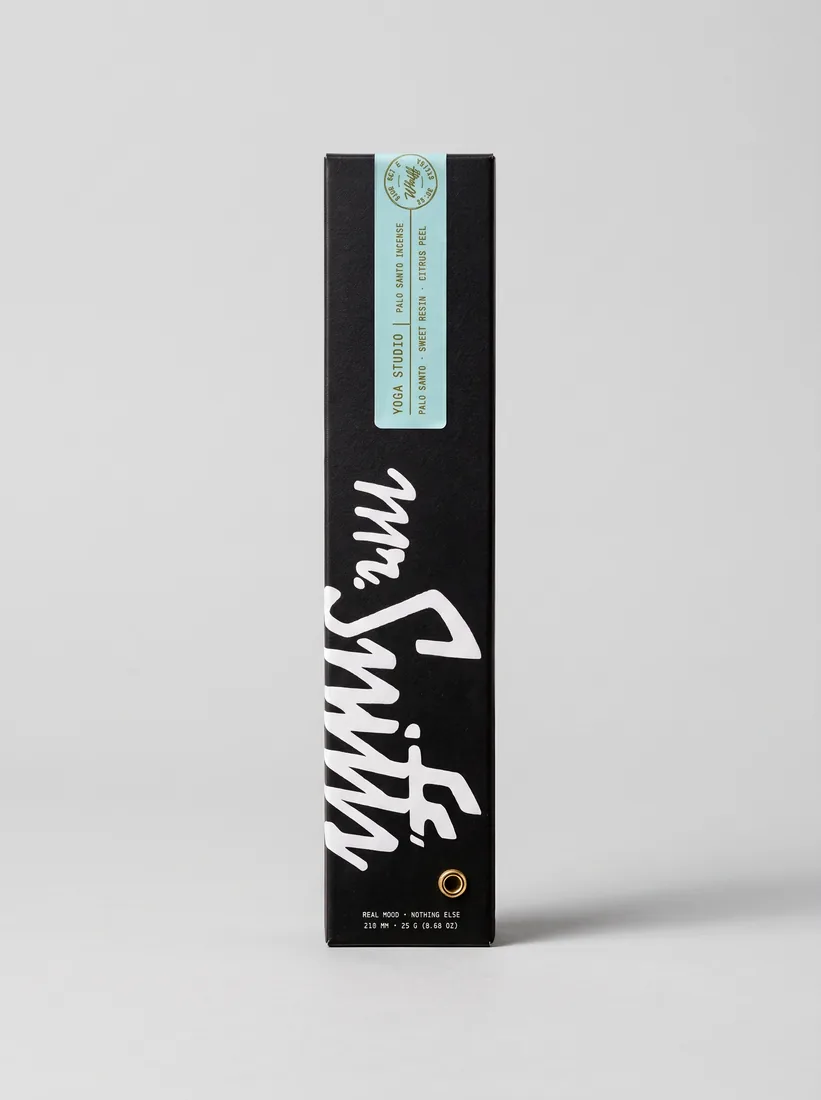
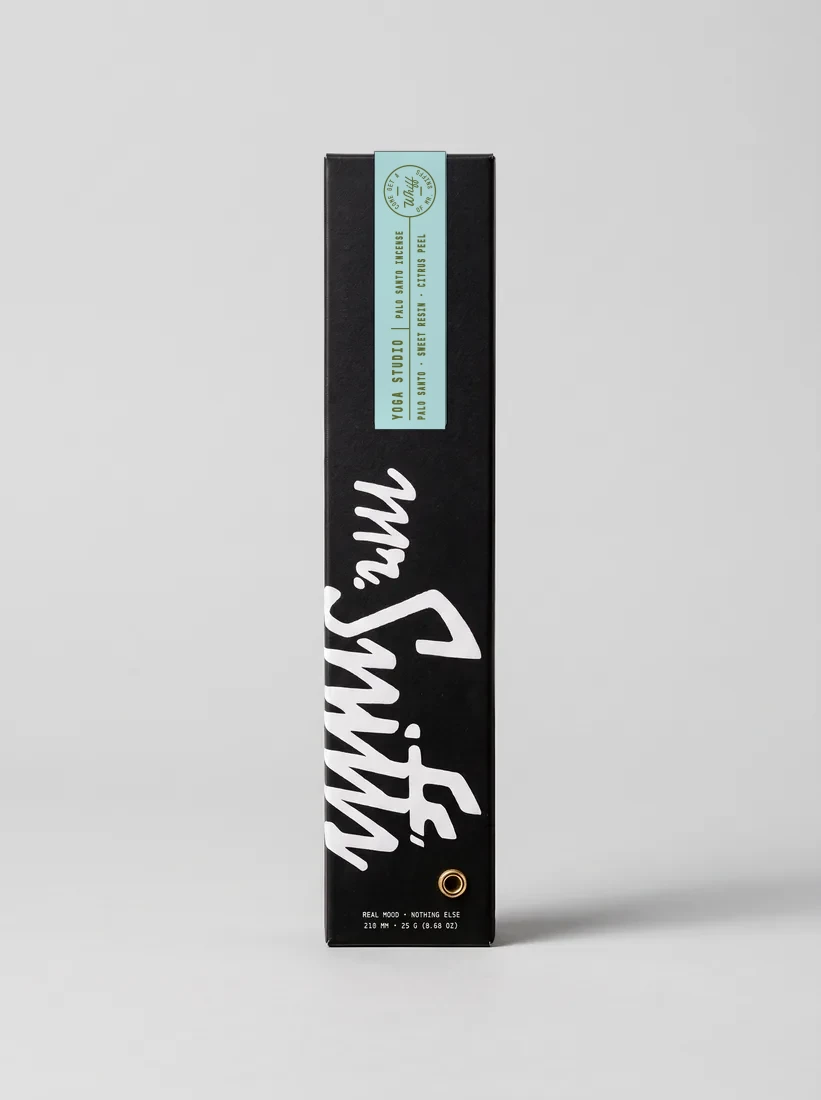
Clean AI label artifacts, flip Bonfire wordmark, swap team block for origin story
- Rebuild the Bonfire and Yoga Studio labels as clean artwork (grid measured
  from the master Yoga label) and composite them onto box-bonfire, box-yoga
  (now 2x), shop-bonfire, shop-yoga, shop-duo and pdp-gallery-main
- pdp-smell-bg: rotate the wordmark 180 degrees in place, rebuild the box edge,
  replace the garbled label
- Our Story: replace the placeholder team row with a three-beat origin story;
  pull quote drops 'bold fragrances' and the placeholder founder name
- Remove unused team portraits; note packaging orientation in BUILD-LIST

Claude-Session: https://claude.ai/code/session_018sbhs56ehqqzLbZEBXg3e9

Changed region(s): [[0.4568, 0.1236, 0.5481, 0.4018]]

diff --git a/story.html b/story.html
@@ -60,49 +60,40 @@
     <section class="story-hero" aria-labelledby="story-title">
       <img class="story-hero__img" src="assets/img/story/hero.webp" width="2880" height="1556" alt="Bonfire and Yoga Studio incense boxes on bark with palo santo, resin, orange peel and a smoking stick in a black holder" fetchpriority="high" data-parallax="0.06" />
       <h1 class="story-hero__title display-l" id="story-title" data-split>MORE THAN INCENSE.</h1>
-      <p class="story-hero__lede" data-reveal style="--d: 3">Discover Mr. Sniff’s bold fragrances and craftsmanship.</p>
+      <p class="story-hero__lede" data-reveal style="--d: 3">Incense for real rooms and real moments, with nothing poured on top.</p>
     </section>
 
-    <!-- ─── Meet the people (132:128) · placeholder names + photos ─ -->
-    <section class="team" aria-labelledby="team-title" data-team>
-      <header class="team__head">
-        <div data-reveal>
-          <h2 class="display-l" id="team-title">MEET THE PEOPLE BEHIND MR. SNIFF'S.</h2>
-          <p class="lede">Meet the creative minds behind every Mr. Sniff's scent.</p>
-        </div>
-        <div class="team__nav" data-reveal style="--d: 1">
-          <button class="team__arrow" type="button" aria-label="Previous person" data-team-prev><svg viewBox="0 0 24 24" width="18" height="18" fill="none" stroke="currentColor" stroke-width="1.5" stroke-linecap="round" stroke-linejoin="round" aria-hidden="true"><path d="m15 18-6-6 6-6"/></svg></button>
-          <button class="team__arrow" type="button" aria-label="Next person" data-team-next><svg viewBox="0 0 24 24" width="18" height="18" fill="none" stroke="currentColor" stroke-width="1.5" stroke-linecap="round" stroke-linejoin="round" aria-hidden="true"><path d="m9 18 6-6-6-6"/></svg></button>
-        </div>
-      </header>
-      <ul class="team__row" data-reveal style="--d: 1">
-        <li class="member is-active" data-member>
-          <button class="member__media" type="button" aria-pressed="true" aria-label="Iva Ryan, Founder">
-            <img src="assets/img/story/team-b.webp" alt="Founder holding a lit incense stick in a yellow leather jacket" loading="lazy" />
-          </button>
-          <div class="member__info" aria-hidden="false"><p class="member__name">Iva Ryan</p><p class="member__role">Founder</p></div>
-        </li>
-        <li class="member" data-member>
-          <button class="member__media" type="button" aria-pressed="false" aria-label="Theo Marsh, Co-founder">
-            <img src="assets/img/story/team-a.webp" alt="Co-founder holding a lit incense stick in an embroidered jacket" loading="lazy" />
-          </button>
-          <div class="member__info" aria-hidden="true"><p class="member__name">Theo Marsh</p><p class="member__role">Co-founder</p></div>
-        </li>
-        <li class="member" data-member>
-          <button class="member__media" type="button" aria-pressed="false" aria-label="June Alvarez, Creative Director">
-            <img src="assets/img/story/team-b.webp" alt="Creative director holding a lit incense stick" loading="lazy" />
-          </button>
-          <div class="member__info" aria-hidden="true"><p class="member__name">June Alvarez</p><p class="member__role">Creative Director</p></div>
-        </li>
-        <li class="member" data-member>
-          <button class="member__media" type="button" aria-pressed="false" aria-label="Dez Okafor, Head of Scent">
-            <img src="assets/img/story/team-a.webp" alt="Head of scent holding a lit incense stick" loading="lazy" />
-          </button>
-          <div class="member__info" aria-hidden="true"><p class="member__name">Dez Okafor</p><p class="member__role">Head of Scent</p></div>
-        </li>
-      </ul>
+    <!-- ─── Origin story (replaces Meet the people 132:128 until the team shoot) ─ -->
+    <section class="origin" aria-labelledby="origin-title">
+      <div class="origin__copy">
+        <header class="origin__head" data-reveal>
+          <p class="eyebrow">How it started</p>
+          <h2 class="display-l" id="origin-title">HOW MR. SNIFF’S GOT ITS NOSE.</h2>
+          <p class="lede">It started the way most good ideas do: a few friends, a late night and one very bad stick of incense.</p>
+        </header>
+        <ol class="origin__beats">
+          <li class="origin__beat" data-reveal style="--d: 1">
+            <span class="origin__num mono">01</span>
+            <h3 class="origin__title">The bad stick.</h3>
+            <p>Somebody lit a stick from a gas-station counter. Ten minutes later the room smelled like a candle shop on fire. We opened every window, and one question hung around longer than the smoke: why does nearly all incense smell like perfume?</p>
+          </li>
+          <li class="origin__beat" data-reveal style="--d: 2">
+            <span class="origin__num mono">02</span>
+            <h3 class="origin__title">The fix.</h3>
+            <p>Most of it is soaked in fragrance oil. So we went the other way: aromatic wood, a plant-based binder and nothing poured on top. What you smell is what’s burning. We lit a lot of test batches on porches, in garages and in living rooms. Two made the cut.</p>
+          </li>
+          <li class="origin__beat" data-reveal style="--d: 3">
+            <span class="origin__num mono">03</span>
+            <h3 class="origin__title">The name.</h3>
+            <p>Every crew has a friend with a nose for it, the one who knows what’s in the room before their coat is off. We put a moustache on him, called him Mr. Sniff, and made him the boss. He’s never once been wrong about a smell.</p>
+          </li>
+        </ol>
+        <p class="origin__sign mono" data-reveal style="--d: 4">Two scents. One nose. Come get a whiff.</p>
+      </div>
+      <figure class="origin__media" data-reveal style="--d: 1">
+        <img src="assets/img/smell-hero.webp" width="1800" height="1005" alt="Bonfire and Yoga Studio boxes on a stack of books beside a moustache holder with a burning stick" loading="lazy" />
+      </figure>
     </section>
-
     <!-- ─── Why we started (132:268) · pinned quote, drifting photos ─ -->
     <section class="why" aria-labelledby="why-title" data-why>
       <div class="why__stage">
@@ -121,8 +112,8 @@
         <div class="why__copy">
           <img class="why__mark" src="assets/img/story/quote.svg" width="83" height="62" alt="" />
           <p class="why__eyebrow" id="why-title">Why we started</p>
-          <blockquote class="why__quote" data-why-quote><p><span class="why__word">We</span> <span class="why__word">started</span> <span class="why__word">Mr.</span> <span class="why__word">Sniff’s</span> <span class="why__word">with</span> <span class="why__word">a</span> <span class="why__word">simple</span> <span class="why__word">belief:</span> <span class="why__word">incense</span> <span class="why__word">should</span> <span class="why__word">never</span> <span class="why__word">be</span> <span class="why__word">ordinary.</span> <span class="why__word">Bold</span> <span class="why__word">fragrances,</span> <span class="why__word">real</span> <span class="why__word">ingredients,</span> <span class="why__word">and</span> <span class="why__word">a</span> <span class="why__word">little</span> <span class="why__word">personality</span> <span class="why__word">make</span> <span class="why__word">everyday</span> <span class="why__word">moments</span> <span class="why__word">memorable.</span></p></blockquote>
-          <p class="why__by"><span class="why__name">Iva Ryan</span><span class="why__role">Founder</span></p>
+          <blockquote class="why__quote" data-why-quote><p><span class="why__word">Incense</span> <span class="why__word">shouldn’t</span> <span class="why__word">smell</span> <span class="why__word">like</span> <span class="why__word">a</span> <span class="why__word">perfume</span> <span class="why__word">counter,</span> <span class="why__word">and</span> <span class="why__word">it</span> <span class="why__word">shouldn’t</span> <span class="why__word">take</span> <span class="why__word">itself</span> <span class="why__word">so</span> <span class="why__word">seriously.</span> <span class="why__word">Real</span> <span class="why__word">wood,</span> <span class="why__word">nothing</span> <span class="why__word">poured</span> <span class="why__word">on</span> <span class="why__word">top</span> <span class="why__word">and</span> <span class="why__word">a</span> <span class="why__word">little</span> <span class="why__word">personality</span> <span class="why__word">in</span> <span class="why__word">every</span> <span class="why__word">burn.</span></p></blockquote>
+          <p class="why__by"><span class="why__name">The Mr. Sniff’s crew</span><span class="why__role">Founders</span></p>
         </div>
       </div>
     </section>

diff --git a/css/story.css b/css/story.css
@@ -34,82 +34,39 @@
 .story-hero__title { position: absolute; left: 13.47%; top: 48.46%; white-space: nowrap; }
 .story-hero__lede { position: absolute; left: 64.65%; top: 50.26%; width: calc(402 * var(--s)); font-size: 16px; line-height: var(--lh-body); letter-spacing: var(--tr-body); }
 
-/* ---- Team (132:128) --------------------------------------------------------- */
-.team { padding: var(--section-y) var(--gutter) var(--s-60); }
-.team__head { display: flex; align-items: flex-end; justify-content: space-between; gap: var(--s-24); }
-.team__head .display-l { max-width: 640px; }
-.team__head .lede { margin-top: 12px; }
-.team__nav { display: flex; gap: 8px; }
-.team__arrow {
+/* ---- Origin story (stands in for the team row until the headshot shoot) - */
+.origin {
   display: grid;
-  place-items: center;
-  width: 44px;
-  height: 44px;
-  border: 1px solid var(--c-ink-15);
-  background: var(--c-white);
-  color: var(--c-ink);
-  cursor: pointer;
-  transition: background-color var(--dur-fast), color var(--dur-fast), border-color var(--dur-fast);
+  grid-template-columns: minmax(0, 5fr) minmax(0, 6fr);
+  gap: var(--s-72);
+  align-items: start;
+  padding: calc(var(--section-y) * 1.5) var(--pad-x);
 }
-.team__arrow:hover { background: var(--c-ink); color: var(--c-white); border-color: var(--c-ink); }
-
-/* four portraits: the active one grows (Figma 381×481 vs 241×271, scaled to 4-up) */
-.team__row {
-  display: flex;
-  align-items: flex-end;
-  gap: 16px;
-  margin: var(--s-48) 0 0;
-  padding: 0;
-  list-style: none;
-  height: calc(592 * var(--s));
+.origin__head .display-l { margin-top: var(--s-16); max-width: 560px; }
+.origin__head .lede { margin-top: var(--s-16); max-width: 460px; }
+.origin__beats { list-style: none; margin: var(--s-48) 0 0; padding: 0; border-top: 1px solid var(--c-line); }
+.origin__beat {
+  display: grid;
+  grid-template-columns: 56px 1fr;
+  column-gap: var(--s-16);
+  row-gap: var(--s-8);
+  padding: var(--s-24) 0;
+  border-bottom: 1px solid var(--c-line);
 }
-.member {
-  position: relative;
-  flex: 297 1 0;
-  min-width: 0;
-  height: calc(334 * var(--s));
-  transition: flex-grow 700ms var(--ease-out), height 700ms var(--ease-out);
-}
-.member.is-active { flex-grow: 469; height: 100%; }
-.member__media {
-  display: block;
-  width: 100%;
-  height: 100%;
-  padding: 0;
-  border: 0;
+.origin__num { grid-row: span 2; padding-top: 4px; font-size: var(--fs-sm); letter-spacing: var(--tr-mono-wide); color: var(--c-ember); }
+.origin__title { font-weight: 500; font-size: 20px; letter-spacing: -0.4px; line-height: 1.2; }
+.origin__beat p { color: var(--c-ink-60); line-height: var(--lh-body); letter-spacing: var(--tr-body); max-width: 520px; }
+.origin__sign { margin-top: var(--s-36); font-size: var(--fs-sm); letter-spacing: var(--tr-mono-wide); }
+.origin__media {
+  position: sticky;
+  top: calc(var(--header-h, 72px) + var(--s-24));
+  margin: 0;
+  aspect-ratio: 4 / 5;
   overflow: hidden;
-  background: #f1f1f1;
-  cursor: pointer;
+  background: var(--c-stone);
 }
-.member__media img {
-  width: 100%;
-  height: 100%;
-  object-fit: cover;
-  object-position: 50% 18%;
-  filter: grayscale(0.35);
-  transition: transform 900ms var(--ease-out), filter 500ms var(--ease-out);
-}
-.member.is-active .member__media img { filter: none; }
-.member__media:hover img { transform: scale(1.03); }
-.member__media:focus-visible { outline: 2px solid var(--c-ink); outline-offset: 3px; }
-/* name sits beside the active portrait, above the next one (Figma 132:142) */
-.member__info {
-  position: absolute;
-  left: calc(100% + 16px);
-  top: calc(70 * var(--s));
-  width: max-content;
-  display: flex;
-  flex-direction: column;
-  gap: 8px;
-  opacity: 0;
-  translate: 0 10px;
-  pointer-events: none;
-  transition: opacity 400ms var(--ease-out), translate 500ms var(--ease-out);
-}
-.member.is-active .member__info { opacity: 1; translate: 0 0; transition-delay: 250ms; }
-.member:last-child .member__info { left: auto; right: calc(100% + 16px); text-align: right; }
-.member__name { font-weight: 500; font-size: 24px; letter-spacing: -0.48px; }
-.member__role { font-size: 16px; letter-spacing: var(--tr-body); color: rgba(20, 20, 20, 0.6); }
+.origin__media img { width: 100%; height: 100%; object-fit: cover; object-position: 58% 50%; transition: transform 900ms var(--ease-out); }
+.origin__media:hover img { transform: scale(1.03); }
 
 /* ---- Why we started (132:268): pinned quote, photos drift past --------- */
 .page-story .why { display: block; position: relative; height: 260vh; padding: 0; gap: 0; background: var(--c-ink); color: var(--c-white); }
@@ -281,9 +238,9 @@
   .story-hero { aspect-ratio: auto; height: 78svh; }
   .story-hero__title { left: var(--pad-x); top: auto; bottom: 120px; white-space: normal; }
   .story-hero__lede { left: var(--pad-x); top: auto; bottom: 64px; width: auto; right: var(--pad-x); }
-  .team__row { height: auto; overflow-x: auto; scroll-snap-type: x mandatory; }
-  .member, .member.is-active { flex: 0 0 72%; height: auto; aspect-ratio: 4 / 5; scroll-snap-align: start; }
-  .member__info { position: static; opacity: 1; translate: none; margin-top: 10px; }
+  .origin { grid-template-columns: 1fr; gap: var(--s-36); }
+  .origin__media { position: relative; top: auto; order: -1; aspect-ratio: 4 / 3; }
+  .origin__beat { grid-template-columns: 36px 1fr; }
   .pov { height: auto; }
   .pov__stage { position: relative; height: auto; grid-template-columns: 1fr; }
   .pov__media { height: 70vw; }

diff --git a/js/story.js b/js/story.js
@@ -1,9 +1,8 @@
 /* ==========================================================================
    Mr. Sniff's — Our Story interactions
-   1. Team: hover / click / arrows enlarge a portrait and swap the name
-   2. Why we started: pinned quote lights up word by word while photos drift
+   1. Why we started: pinned quote lights up word by word while photos drift
       past at different speeds and loop (reference: caspia.framer.media)
-   3. Point of view: scroll steps through three tabs; tabs are also clickable
+   2. Point of view: scroll steps through three tabs; tabs are also clickable
    ========================================================================== */
 (() => {
   const $ = (sel, ctx = document) => ctx.querySelector(sel);
@@ -17,31 +16,7 @@
     return run > 0 ? clamp(-r.top / run) : (r.top < 0 ? 1 : 0);
   };
 
-  /* ---- 1. Team ------------------------------------------------------------- */
-  const team = $('[data-team]');
-  if (team) {
-    const members = $$('[data-member]', team);
-    let active = 0;
-    const setActive = (i) => {
-      active = (i + members.length) % members.length;
-      members.forEach((m, k) => {
-        const on = k === active;
-        m.classList.toggle('is-active', on);
-        $('.member__media', m).setAttribute('aria-pressed', String(on));
-        $('.member__info', m).setAttribute('aria-hidden', String(!on));
-      });
-    };
-    members.forEach((m, i) => {
-      const media = $('.member__media', m);
-      media.addEventListener('mouseenter', () => setActive(i));
-      media.addEventListener('focus', () => setActive(i));
-      media.addEventListener('click', () => setActive(i));
-    });
-    $('[data-team-prev]', team)?.addEventListener('click', () => setActive(active - 1));
-    $('[data-team-next]', team)?.addEventListener('click', () => setActive(active + 1));
-  }
-
-  /* ---- 2. Why we started -------------------------------------------------- */
+  /* ---- 1. Why we started -------------------------------------------------- */
   const why = $('[data-why]');
   const words = why ? $$('.why__word', why) : [];
   const cards = why ? $$('[data-why-card]', why).map((el) => ({
@@ -69,7 +44,7 @@
     });
   };
 
-  /* ---- 3. Point of view ---------------------------------------------------- */
+  /* ---- 2. Point of view ---------------------------------------------------- */
   const pov = $('[data-pov]');
   const tabs = pov ? $$('[data-pov-tab]', pov) : [];
   const panels = pov ? $$('[data-pov-panel]', pov) : [];

diff --git a/BUILD-LIST.md b/BUILD-LIST.md
@@ -28,7 +28,7 @@ Style source: Figma file "Mr. Sniff's Style Guide + Emails" (tokens, type styles
 
 | # | Item | Owner / notes |
 |---|---|---|
-| 1 | **Our Story** | Built (`story.html`). Placeholders to swap: team names, roles and portraits (4), founder quote attribution, POV panels 2–3 copy |
+| 1 | **Our Story** | Built (`story.html`). Team row replaced with the origin story (Nov 23); team returns after the January headshot shoot in Greenville. Origin copy and the reworked pull quote need Don and Kyle's sign-off. POV panels 2–3 copy still open |
 | 2 | **Shopify port** | Convert pages to theme sections/templates; swap the Cart API block in `js/cart.js` and `search()` in `js/search.js` for Shopify's AJAX endpoints; contact form → `{% form 'contact' %}`. Target: done by Dec 8 to leave a week for QA |
 | 3 | **Checkout styling** | Shopify admin → Checkout: logo, Ink/White/Ember colors, Big Shoulders + Inter, square buttons. About an hour |
 | 4 | **Policy details + review** | Fill bracketed items (company name, address, shipping rates, return window), then counsel review |
@@ -53,6 +53,8 @@ Style source: Figma file "Mr. Sniff's Style Guide + Emails" (tokens, type styles
 
 - Logo renders small on How to Use in Chrome.
 - Upside-down product photo on the PDP gallery.
+- Product photography: the real box prints the wordmark and the label in opposite reading directions, so a horizontal shot can show one upright, never both. Bonfire "What it smells like" now shows the wordmark upright (Nov 23); `howto-care.webp` still shows the label upright.
+- `shop-duo.webp` side panel reads "MBGNIFFS.CO" (AI artifact).
 - Holder stock: homepage/Figma shows Ash Catchum and Brass Monkey sold out, Stachin' Ash in stock. All product pages now follow that; the homepage footnote still says all three are sold out.
 - Mono45 Headline license files still missing (DM Mono stands in).
 - Copy conflict: the homepage and How to Use story blocks say "hand-rolled sticks" and "bold fragrance loads", but the PDP and emails say extruded, sun-dried, no added fragrance. Pick one.
